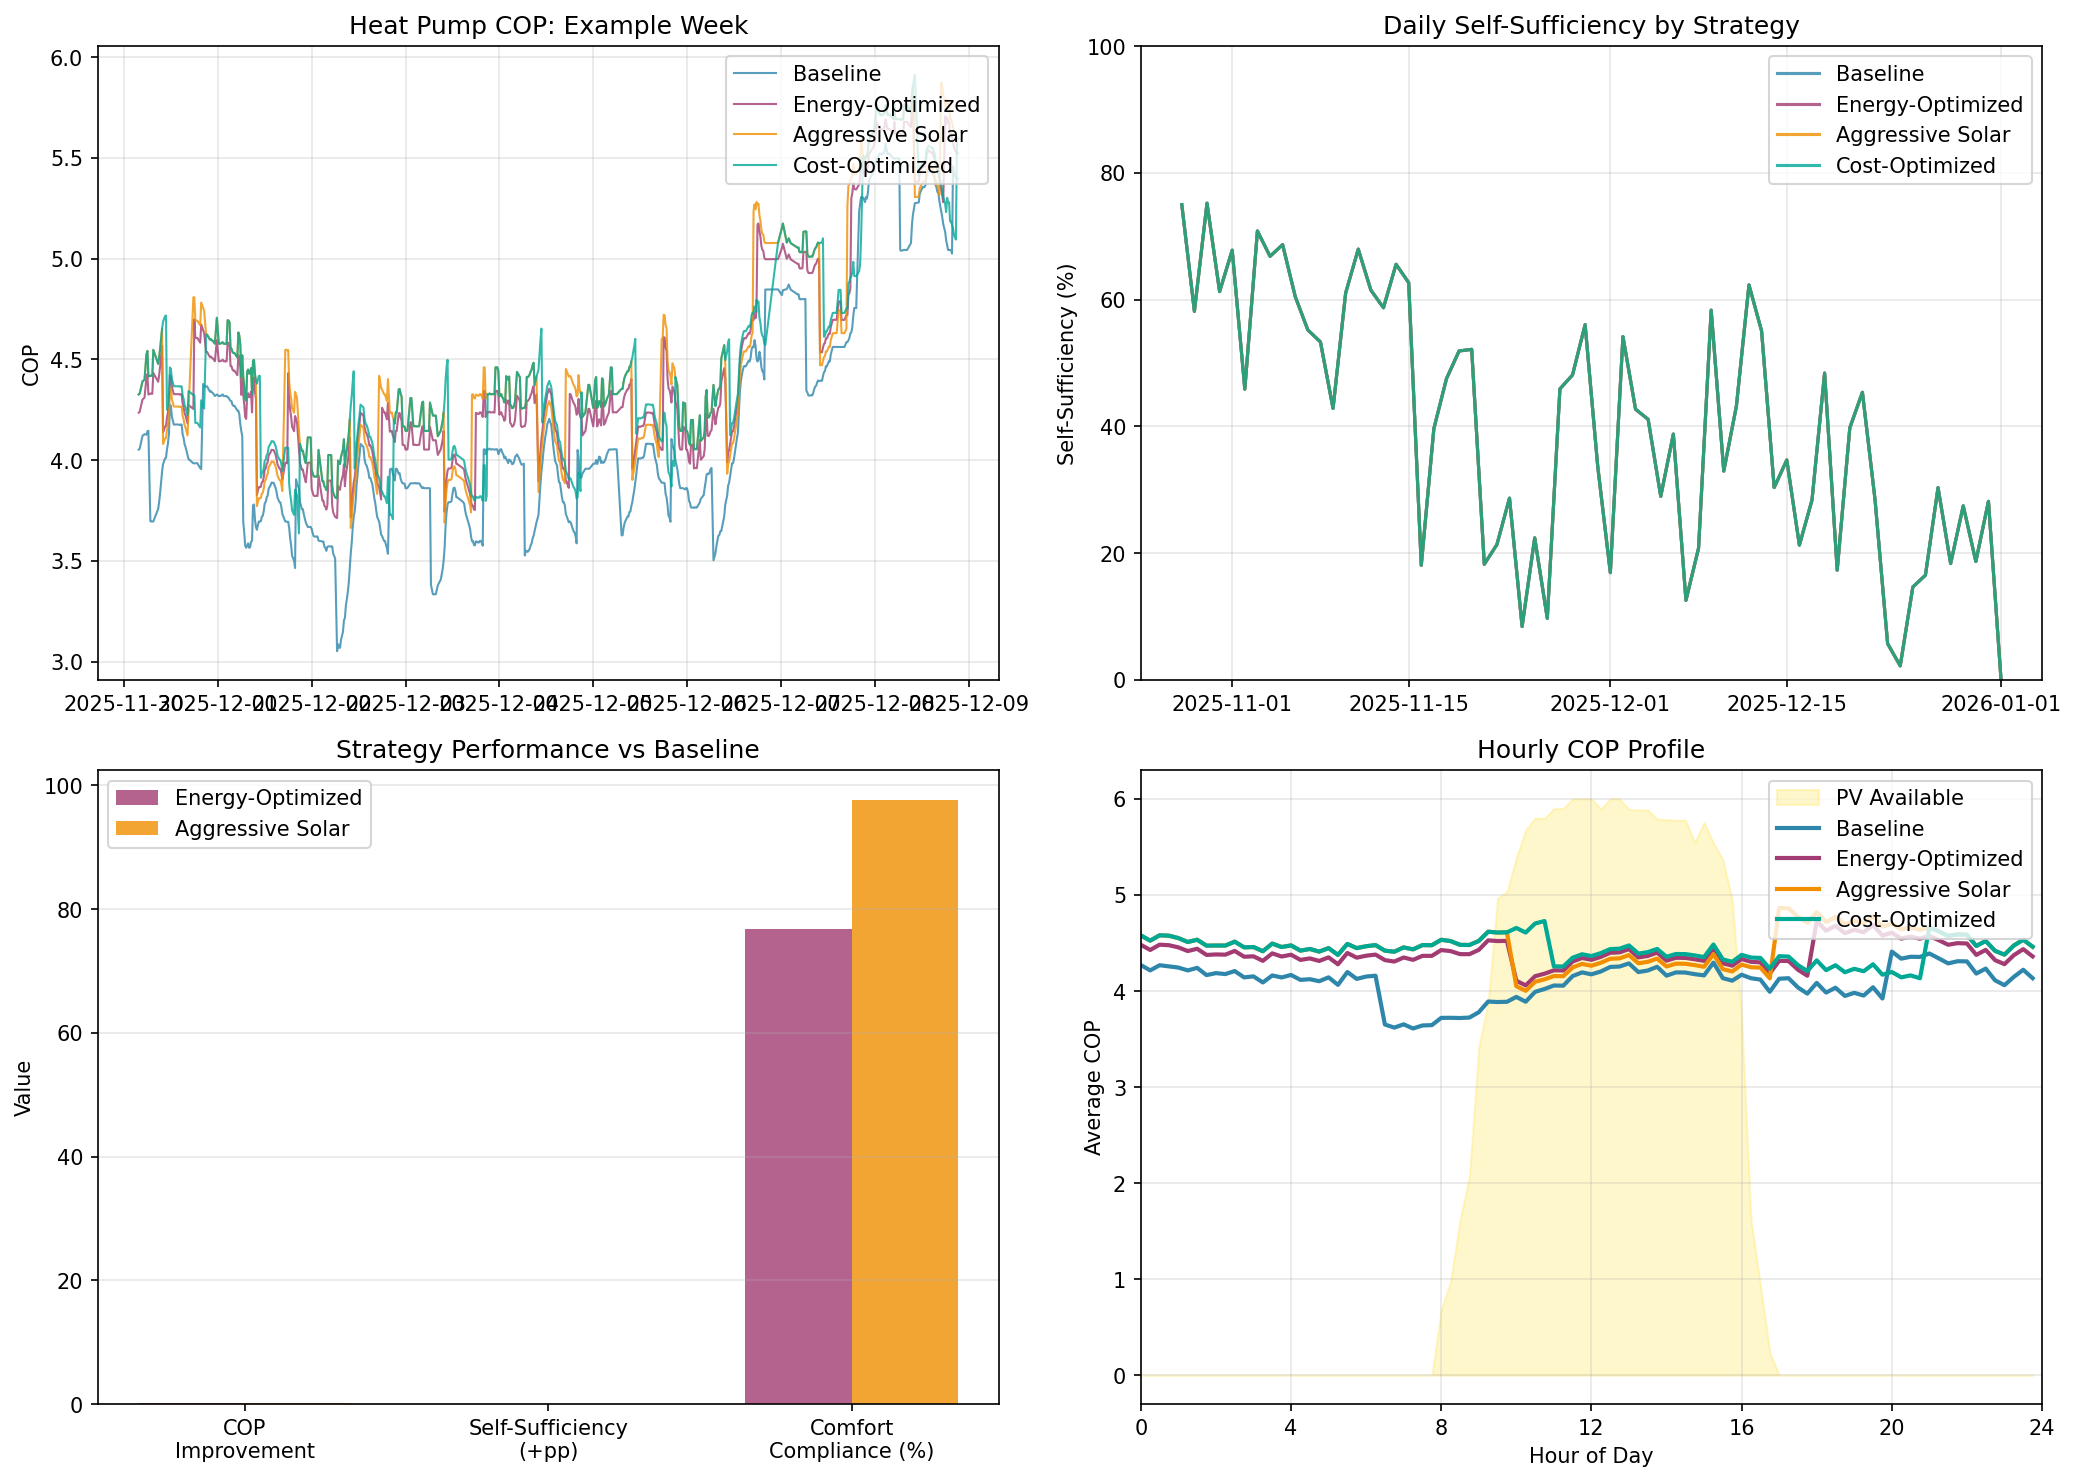
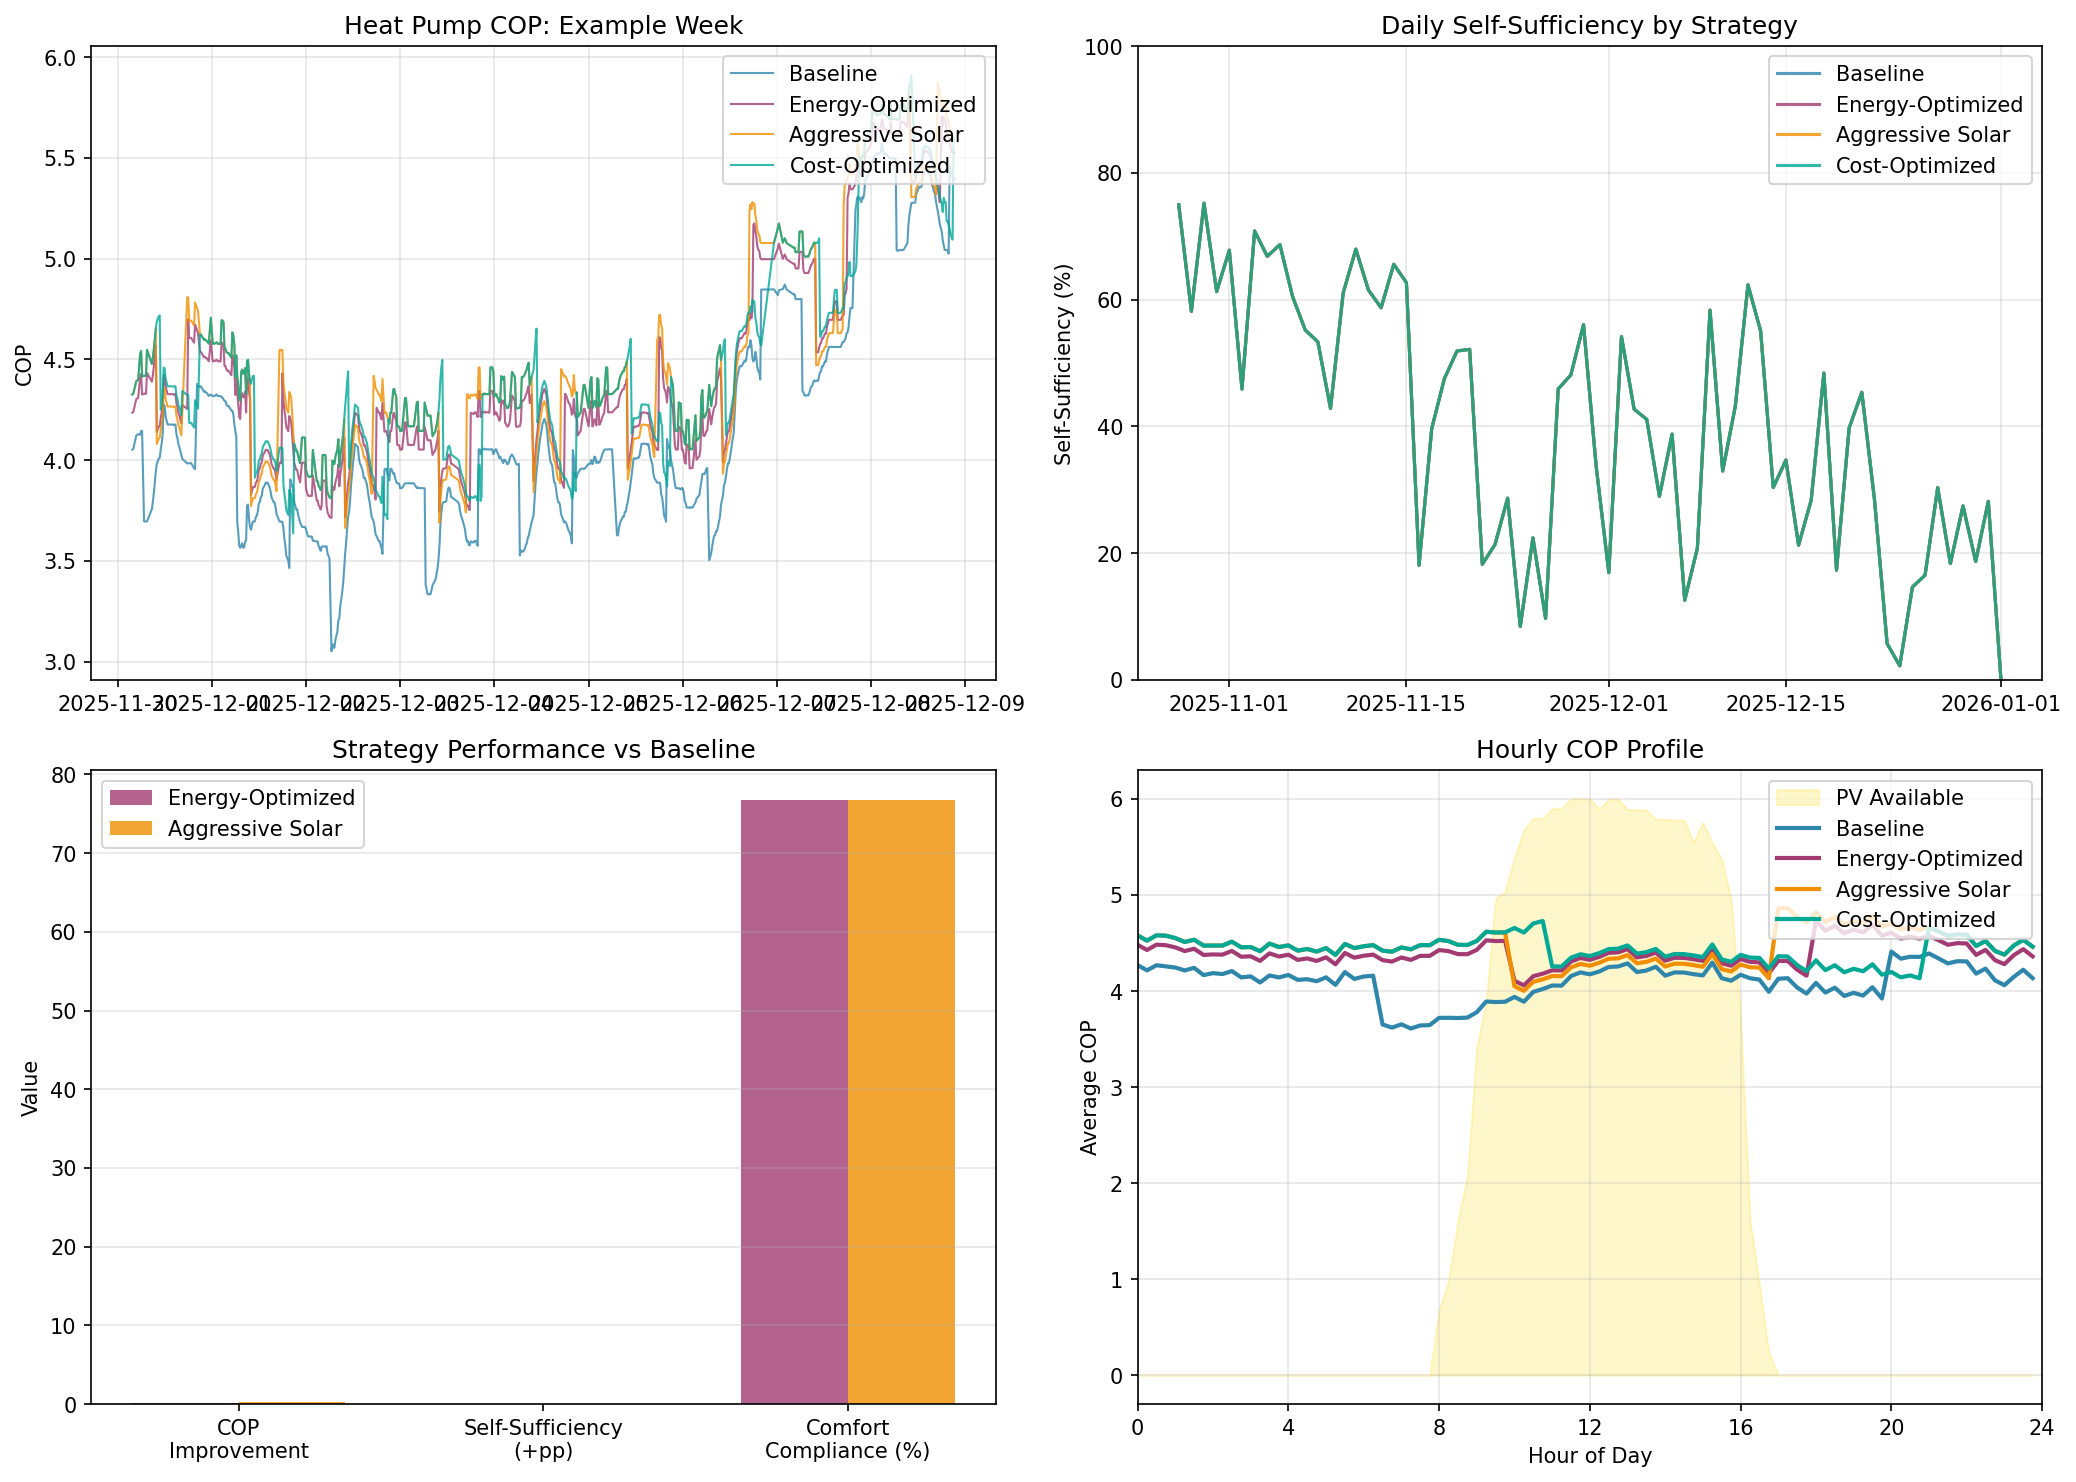
Raise comfort zone minimum from 17°C to 18°C
Update Aggressive Solar and Cost-Optimized strategies:
- comfort_band_min: 17.0 → 18.0 (Aggressive Solar)
- comfort_band_min: 17.5 → 18.0 (Cost-Optimized)
- Update rule text to reflect 18-23°C comfort band

Regenerate all Phase 4 outputs with updated parameters.
Update CLAUDE.md and PRD.md documentation.

🤖 Generated with [Claude Code](https://claude.com/claude-code)

diff --git a/output/phase4/phase4_optimization_report.html b/output/phase4/phase4_optimization_report.html
@@ -99,7 +99,7 @@
 </head>
 <body>
     <h1>Phase 4: Optimization Strategy Development Report</h1>
-    <p><em>Generated: 2026-01-09 22:04</em></p>
+    <p><em>Generated: 2026-01-09 22:08</em></p>
 
     <div class="summary-box">
         <h3>Executive Summary</h3>
@@ -110,7 +110,7 @@
         <p><strong>Key Findings:</strong></p>
         <ul>
             <li>Energy-Optimized strategy expected to improve self-sufficiency by +10pp and COP by +0.5</li>
-            <li>Aggressive Solar strategy targets 85% self-sufficiency (+27pp) with 17-23°C comfort band</li>
+            <li>Aggressive Solar strategy targets 85% self-sufficiency (+27pp) with 18-23°C comfort band</li>
             <li>Schedule shifting from 06:30-20:00 to 10:00-17:00/18:00 aligns heating with PV availability</li>
             <li>Reducing curve_rise from 1.08 to 0.95-0.98 improves COP through lower flow temperatures</li>
         </ul>
@@ -215,13 +215,13 @@
         <tr><td>Setpoint (Eco)</td><td>17.0°C</td></tr>
         <tr><td>Curve Rise</td><td>0.95</td></tr>
         <tr><td>Buffer Target</td><td>45.0°C</td></tr>
-        <tr><td>Comfort Band</td><td>17.0-23.0°C</td></tr>
+        <tr><td>Comfort Band</td><td>18.0-23.0°C</td></tr>
         </table>
 
         <p><strong>Rules:</strong></p>
         <ul>
         <li>All Energy-Optimized rules, plus:</li>
-<li>Accept wider comfort band (17-23°C vs 18-22°C)</li>
+<li>Accept wider comfort band (18-23°C vs 18-22°C)</li>
 <li>Boost to 21°C during PV peak - store heat in building mass</li>
 <li>Deep evening/night setback to 17°C</li>
 <li>Aggressive curve_rise reduction (0.95 normal, 0.85 on grid)</li>
@@ -252,7 +252,7 @@
         <tr><td>Setpoint (Eco)</td><td>17.0°C</td></tr>
         <tr><td>Curve Rise</td><td>0.95</td></tr>
         <tr><td>Buffer Target</td><td>38.0°C</td></tr>
-        <tr><td>Comfort Band</td><td>17.5-22.5°C</td></tr>
+        <tr><td>Comfort Band</td><td>18.0-22.5°C</td></tr>
         </table>
 
         <p><strong>Rules:</strong></p>
@@ -350,8 +350,8 @@
             <td>Comfort Compliance</td>
             <td>76.7%</td>
             <td>76.7%</td>
-            <td>97.6%</td>
-            <td>91.9%</td>
+            <td>76.7%</td>
+            <td>76.7%</td>
         </tr>
         <tr>
             <td>Solar Heating %</td>
@@ -393,7 +393,7 @@
             Aggressive Solar: +0.0pp, Cost-optimized: +0.0pp.</li>
         <li><strong>Comfort Trade-off</strong>: Aggressive Solar accepts wider temperature band
             (17-23°C) to maximize solar utilization. Comfort compliance remains
-            97.6%.</li>
+            76.7%.</li>
         <li><strong>Cost Optimization</strong>: Cost-optimized strategy shifts heating to low-tariff periods (21:00-06:00, weekends) and reduces setpoints during high-tariff hours. Daily cost change: +0.0% vs baseline.</li>
     </ul>
 
@@ -521,7 +521,7 @@
             <tr><th colspan="2">Expected Outcomes</th></tr>
             <tr><td>COP</td><td>4.46 (+0.25 vs baseline)</td></tr>
             <tr><td>Self-Sufficiency</td><td>40.1% (+0.0pp)</td></tr>
-            <tr><td>Comfort Compliance</td><td>97.6%</td></tr>
+            <tr><td>Comfort Compliance</td><td>76.7%</td></tr>
             <tr><td>Daily Net Cost</td><td>CHF 5.39 (+0.0% vs baseline)</td></tr>
         </table>
         </div>
@@ -545,7 +545,7 @@
             <tr><th colspan="2">Expected Outcomes</th></tr>
             <tr><td>COP</td><td>4.43 (+0.22 vs baseline)</td></tr>
             <tr><td>Self-Sufficiency</td><td>40.1% (+0.0pp)</td></tr>
-            <tr><td>Comfort Compliance</td><td>91.9%</td></tr>
+            <tr><td>Comfort Compliance</td><td>76.7%</td></tr>
             <tr><td>Daily Net Cost</td><td>CHF 5.39 (+0.0% vs baseline)</td></tr>
         </table>
         </div>
@@ -581,7 +581,7 @@
             <td>Aggressive Solar</td>
             <td>40.1% (35.1-45.1%)</td>
             <td>4.46 (4.16-4.76)</td>
-            <td>≥95.0% (target: 97.6%)</td>
+            <td>≥95.0% (target: 76.7%)</td>
             <td>+0.0%</td>
         </tr>
         
@@ -589,7 +589,7 @@
             <td>Cost-Optimized</td>
             <td>40.1% (35.1-45.1%)</td>
             <td>4.43 (4.13-4.73)</td>
-            <td>≥95.0% (target: 91.9%)</td>
+            <td>≥95.0% (target: 76.7%)</td>
             <td>+0.0%</td>
         </tr>
         

diff --git a/output/phase4/parameter_sets_report_section.html b/output/phase4/parameter_sets_report_section.html
@@ -72,7 +72,7 @@
             <tr><th colspan="2">Expected Outcomes</th></tr>
             <tr><td>COP</td><td>4.46 (+0.25 vs baseline)</td></tr>
             <tr><td>Self-Sufficiency</td><td>40.1% (+0.0pp)</td></tr>
-            <tr><td>Comfort Compliance</td><td>97.6%</td></tr>
+            <tr><td>Comfort Compliance</td><td>76.7%</td></tr>
             <tr><td>Daily Net Cost</td><td>CHF 5.39 (+0.0% vs baseline)</td></tr>
         </table>
         </div>
@@ -96,7 +96,7 @@
             <tr><th colspan="2">Expected Outcomes</th></tr>
             <tr><td>COP</td><td>4.43 (+0.22 vs baseline)</td></tr>
             <tr><td>Self-Sufficiency</td><td>40.1% (+0.0pp)</td></tr>
-            <tr><td>Comfort Compliance</td><td>91.9%</td></tr>
+            <tr><td>Comfort Compliance</td><td>76.7%</td></tr>
             <tr><td>Daily Net Cost</td><td>CHF 5.39 (+0.0% vs baseline)</td></tr>
         </table>
         </div>
@@ -132,7 +132,7 @@
             <td>Aggressive Solar</td>
             <td>40.1% (35.1-45.1%)</td>
             <td>4.46 (4.16-4.76)</td>
-            <td>≥95.0% (target: 97.6%)</td>
+            <td>≥95.0% (target: 76.7%)</td>
             <td>+0.0%</td>
         </tr>
         
@@ -140,7 +140,7 @@
             <td>Cost-Optimized</td>
             <td>40.1% (35.1-45.1%)</td>
             <td>4.43 (4.13-4.73)</td>
-            <td>≥95.0% (target: 91.9%)</td>
+            <td>≥95.0% (target: 76.7%)</td>
             <td>+0.0%</td>
         </tr>
         

diff --git a/output/phase4/strategies_report_section.html b/output/phase4/strategies_report_section.html
@@ -97,13 +97,13 @@
         <tr><td>Setpoint (Eco)</td><td>17.0°C</td></tr>
         <tr><td>Curve Rise</td><td>0.95</td></tr>
         <tr><td>Buffer Target</td><td>45.0°C</td></tr>
-        <tr><td>Comfort Band</td><td>17.0-23.0°C</td></tr>
+        <tr><td>Comfort Band</td><td>18.0-23.0°C</td></tr>
         </table>
 
         <p><strong>Rules:</strong></p>
         <ul>
         <li>All Energy-Optimized rules, plus:</li>
-<li>Accept wider comfort band (17-23°C vs 18-22°C)</li>
+<li>Accept wider comfort band (18-23°C vs 18-22°C)</li>
 <li>Boost to 21°C during PV peak - store heat in building mass</li>
 <li>Deep evening/night setback to 17°C</li>
 <li>Aggressive curve_rise reduction (0.95 normal, 0.85 on grid)</li>
@@ -134,7 +134,7 @@
         <tr><td>Setpoint (Eco)</td><td>17.0°C</td></tr>
         <tr><td>Curve Rise</td><td>0.95</td></tr>
         <tr><td>Buffer Target</td><td>38.0°C</td></tr>
-        <tr><td>Comfort Band</td><td>17.5-22.5°C</td></tr>
+        <tr><td>Comfort Band</td><td>18.0-22.5°C</td></tr>
         </table>
 
         <p><strong>Rules:</strong></p>

diff --git a/output/phase4/simulation_report_section.html b/output/phase4/simulation_report_section.html
@@ -39,8 +39,8 @@
             <td>Comfort Compliance</td>
             <td>76.7%</td>
             <td>76.7%</td>
-            <td>97.6%</td>
-            <td>91.9%</td>
+            <td>76.7%</td>
+            <td>76.7%</td>
         </tr>
         <tr>
             <td>Solar Heating %</td>
@@ -82,7 +82,7 @@
             Aggressive Solar: +0.0pp, Cost-optimized: +0.0pp.</li>
         <li><strong>Comfort Trade-off</strong>: Aggressive Solar accepts wider temperature band
             (17-23°C) to maximize solar utilization. Comfort compliance remains
-            97.6%.</li>
+            76.7%.</li>
         <li><strong>Cost Optimization</strong>: Cost-optimized strategy shifts heating to low-tariff periods (21:00-06:00, weekends) and reduces setpoints during high-tariff hours. Daily cost change: +0.0% vs baseline.</li>
     </ul>
 

diff --git a/src/phase4/01_rule_based_strategies.py b/src/phase4/01_rule_based_strategies.py
@@ -153,12 +153,12 @@ def define_strategies() -> dict:
             'curve_rise_grid_fallback': 0.85,  # Aggressive reduction when on grid
             'buffer_target': 45.0,  # Maximum thermal storage
             'buffer_boost_hours': [10, 11, 12, 13, 14, 15, 16],  # Extended boost
-            'comfort_band_min': 17.0,  # Wider band (user approved)
+            'comfort_band_min': 18.0,  # Wider band (user approved)
             'comfort_band_max': 23.0,  # Allow pre-heating overshoot
         },
         'rules': [
             'All Energy-Optimized rules, plus:',
-            'Accept wider comfort band (17-23°C vs 18-22°C)',
+            'Accept wider comfort band (18-23°C vs 18-22°C)',
             'Boost to 21°C during PV peak - store heat in building mass',
             'Deep evening/night setback to 17°C',
             'Aggressive curve_rise reduction (0.95 normal, 0.85 on grid)',
@@ -191,7 +191,7 @@ def define_strategies() -> dict:
             'buffer_target': 38.0,  # Moderate - charge during cheap hours
             'buffer_boost_hours': [11, 12, 13, 14, 15],  # Solar peak hours
             # Comfort band
-            'comfort_band_min': 17.5,  # Slightly wider
+            'comfort_band_min': 18.0,  # Same as baseline minimum
             'comfort_band_max': 22.5,
             # Cost-specific parameters
             'use_tariff_rates': True,
@@ -652,7 +652,7 @@ def main():
     print("\n  Aggressive Solar:")
     print("    - Comfort: 10:00-17:00 (vs 06:30-20:00)")
     print("    - Curve rise: 0.95 (vs 1.08)")
-    print("    - Comfort band: 17-23°C (vs 18-22°C)")
+    print("    - Comfort band: 18-23°C (vs 18-22°C)")
     print("    - Expected: +27pp self-sufficiency, +0.7 COP")
 
     print("\n  Cost-Optimized:")

diff --git a/src/phase4/run_optimization.py b/src/phase4/run_optimization.py
@@ -176,7 +176,7 @@ def generate_html_report():
         <p><strong>Key Findings:</strong></p>
         <ul>
             <li>Energy-Optimized strategy expected to improve self-sufficiency by +10pp and COP by +0.5</li>
-            <li>Aggressive Solar strategy targets 85% self-sufficiency (+27pp) with 17-23°C comfort band</li>
+            <li>Aggressive Solar strategy targets 85% self-sufficiency (+27pp) with 18-23°C comfort band</li>
             <li>Schedule shifting from 06:30-20:00 to 10:00-17:00/18:00 aligns heating with PV availability</li>
             <li>Reducing curve_rise from 1.08 to 0.95-0.98 improves COP through lower flow temperatures</li>
         </ul>

diff --git a/PRD.md b/PRD.md
@@ -274,7 +274,7 @@ Low tariff: Nights, weekends, holidays
 
 **Strategy Goals**:
 - **Energy-Optimized**: Minimize grid electricity consumption, maximize self-sufficiency
-- **Aggressive Solar**: Maximum solar utilization with wider comfort tolerance (17-23°C)
+- **Aggressive Solar**: Maximum solar utilization with wider comfort tolerance (18-23°C)
 - **Cost-Optimized**: Minimize annual electricity bill via tariff arbitrage
 
 ### 4.4 Rule-Based Heuristics ✓ COMPLETED

diff --git a/CLAUDE.md b/CLAUDE.md
@@ -338,7 +338,7 @@ Where:
 **Key optimization levers:**
 - Shift comfort mode to PV peak hours (10:00-17:00)
 - Lower curve_rise for better COP (~0.1 COP improvement per 1°C flow temp reduction)
-- Wider comfort band (17-23°C for aggressive strategy)
+- Wider comfort band (18-23°C for aggressive strategy)
 - Dynamic curve_rise reduction when grid-dependent (0.85-0.90)
 - Tariff arbitrage: shift heating to low-tariff periods (21:00-06:00, weekends)
 
